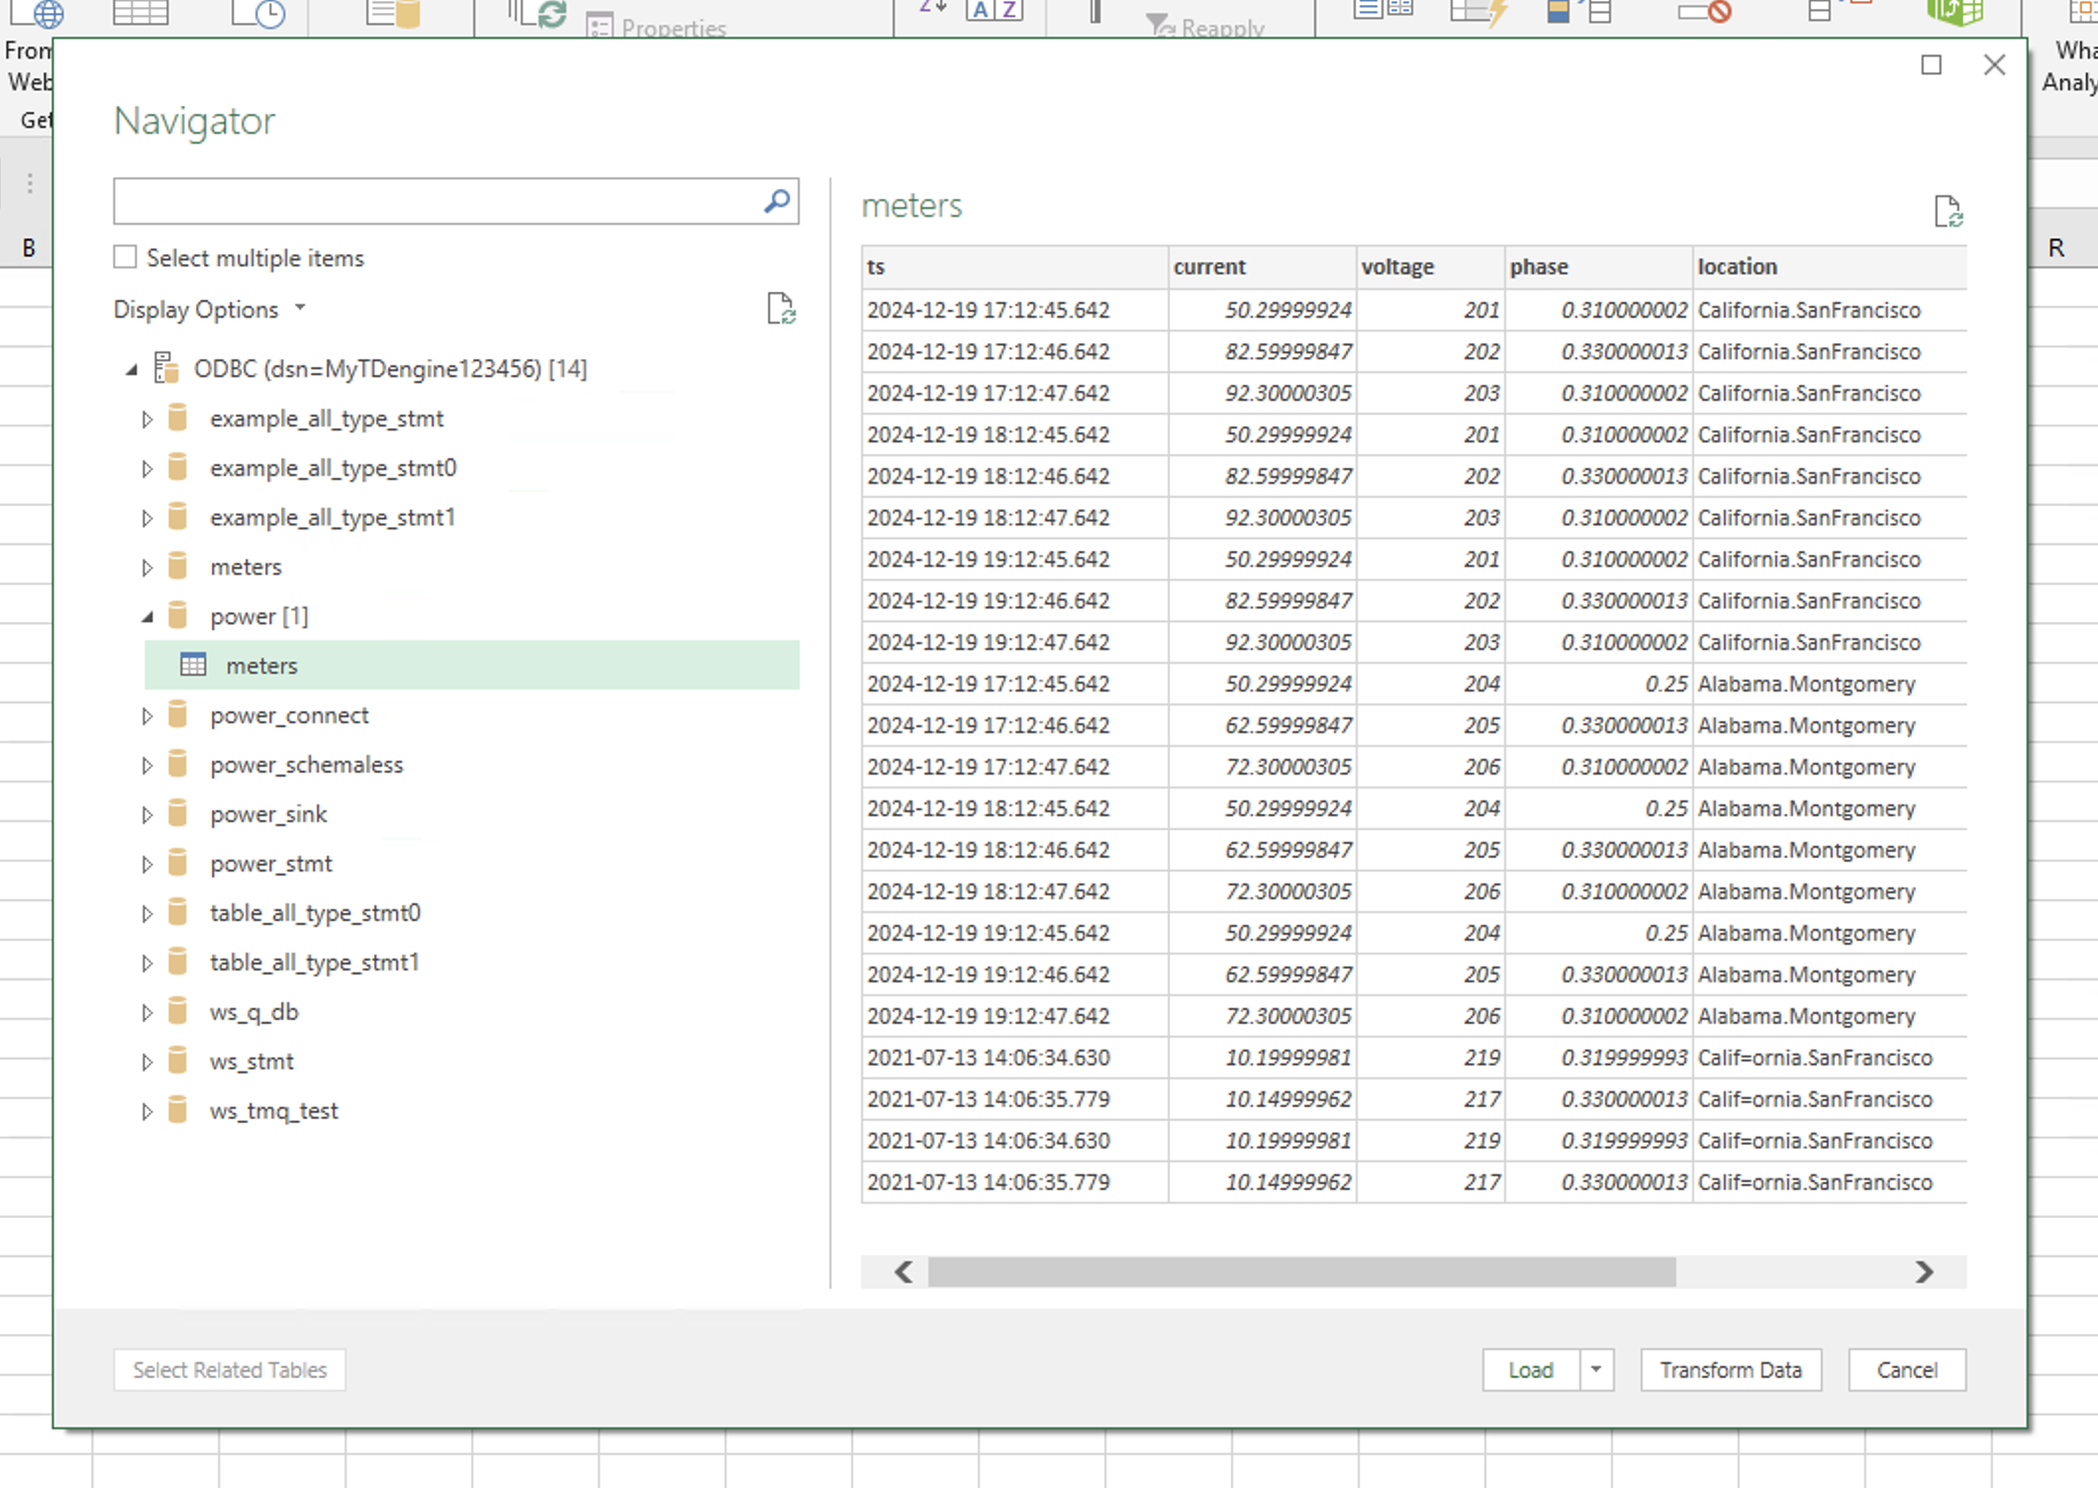
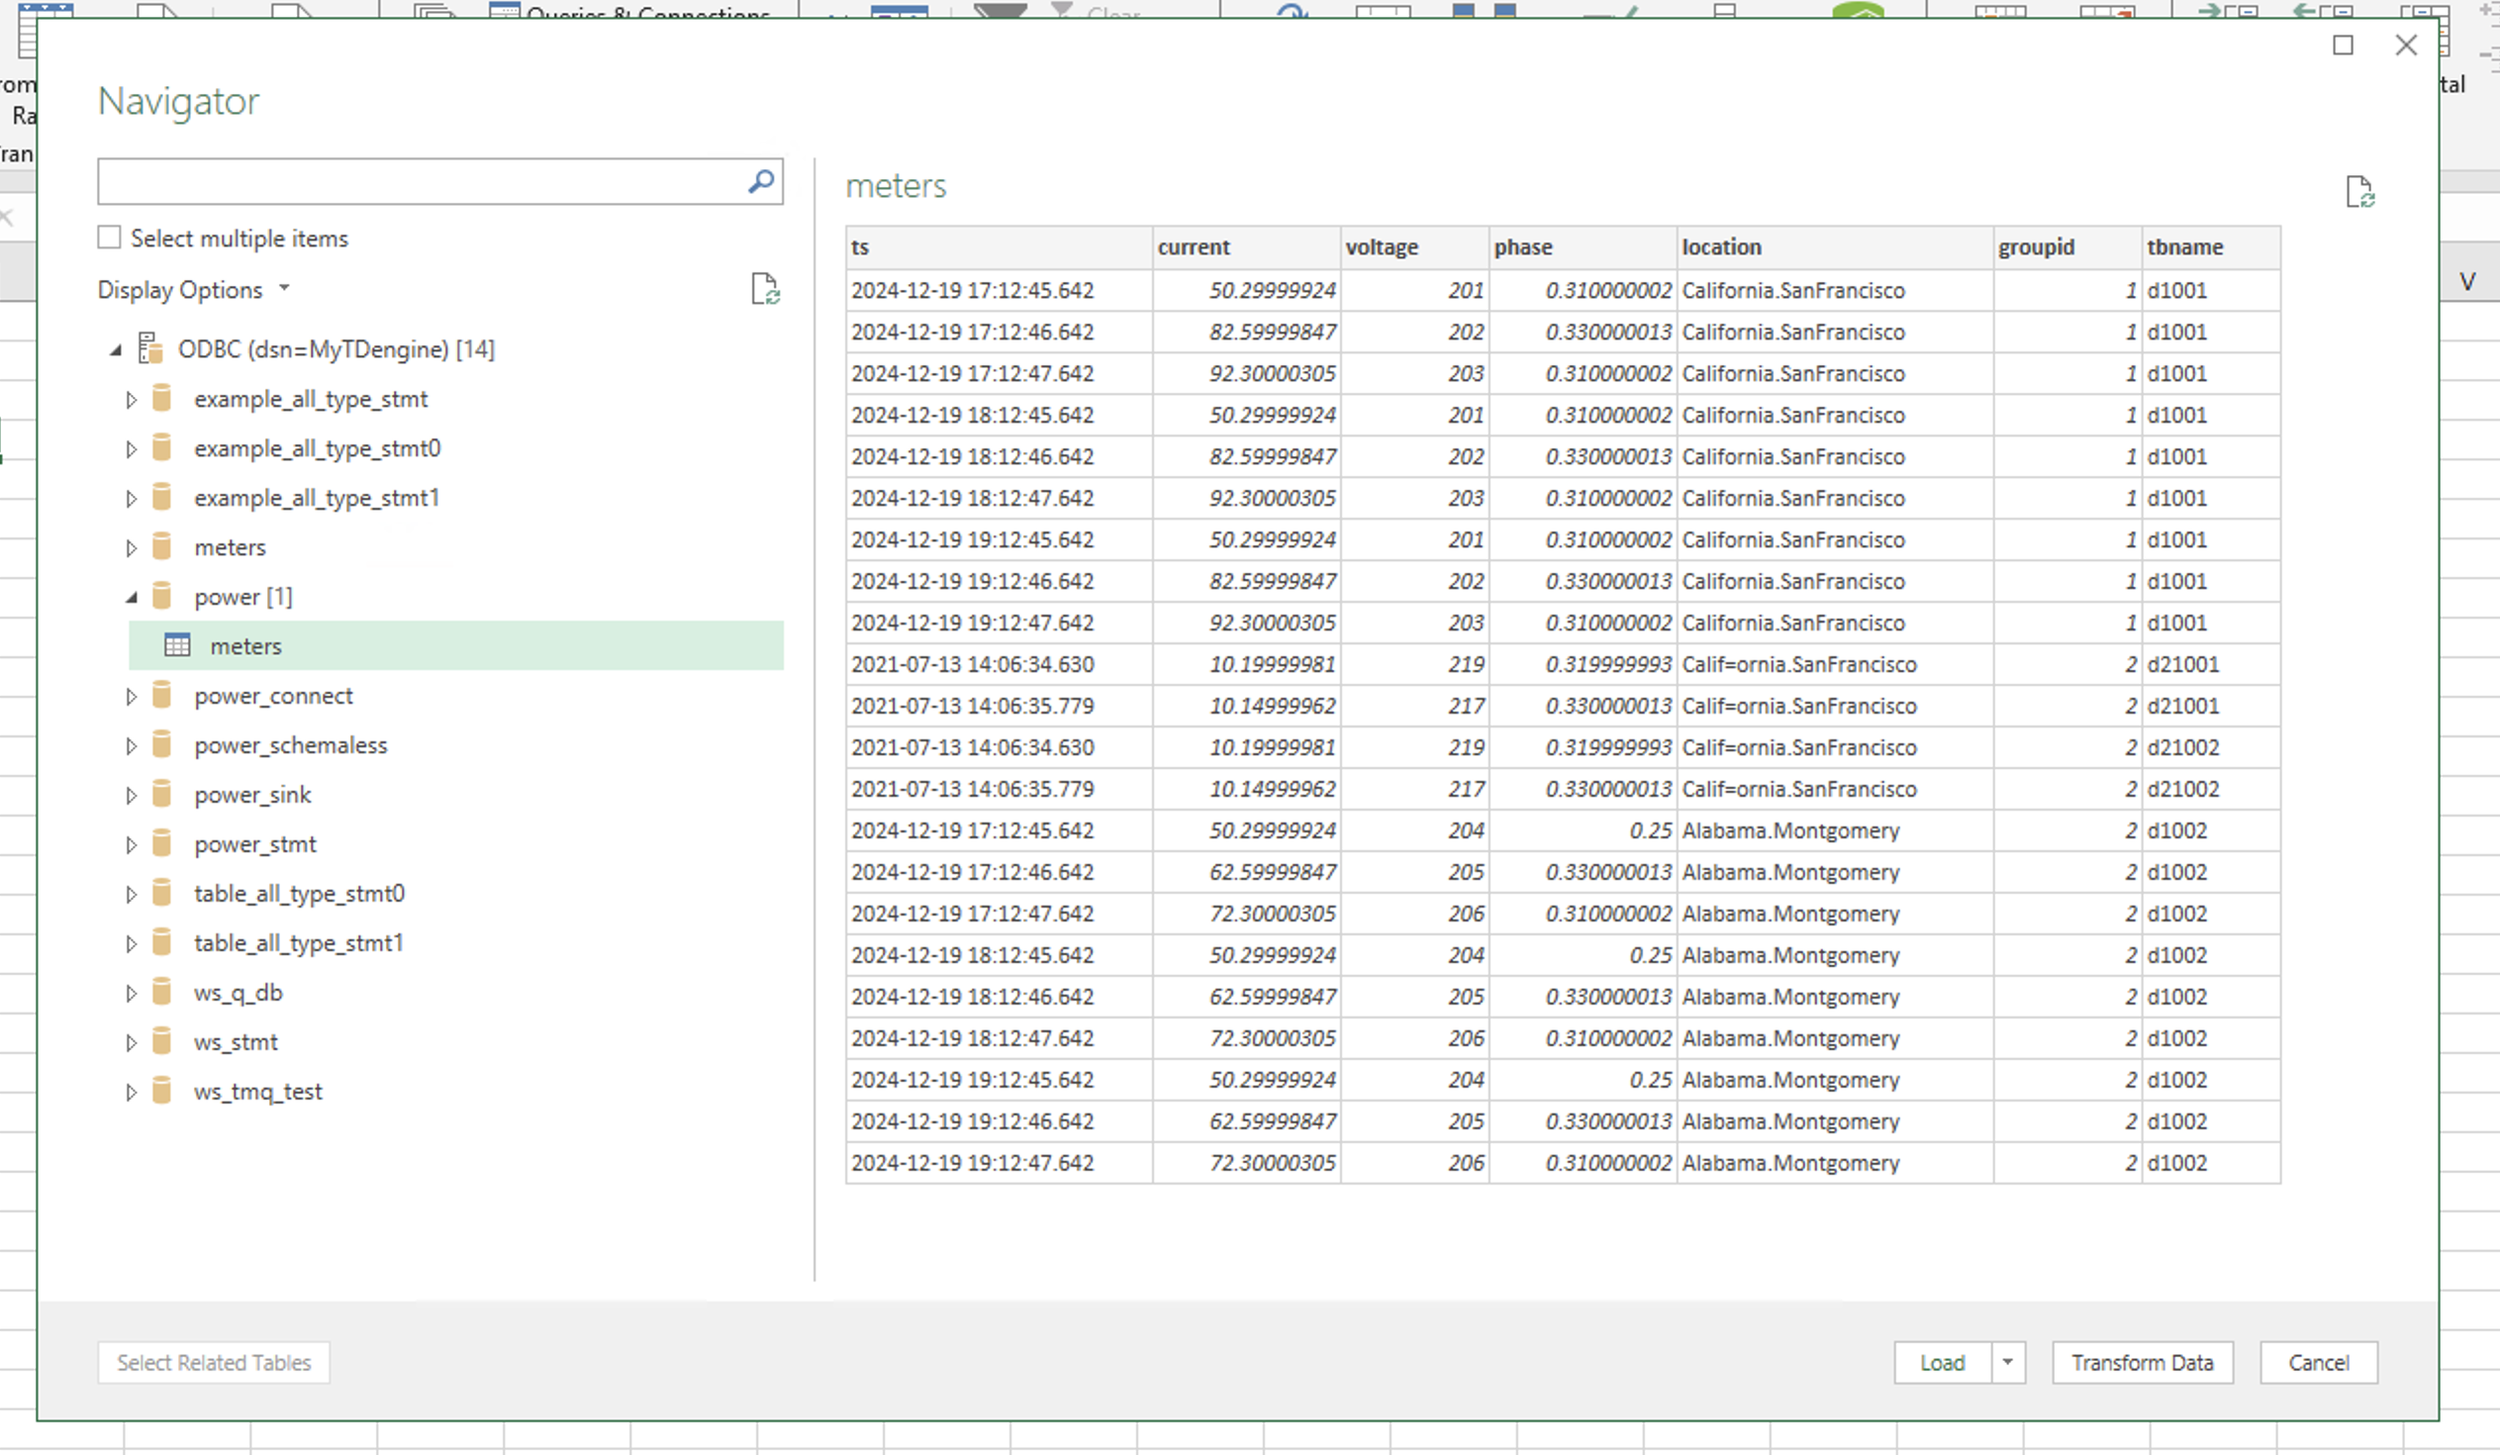
docs(en): modify excel docs error

Changed region(s): [[0.0, 0.0, 1.0, 1.0], [0.2802, 0.1837, 0.3113, 0.2143]]

diff --git a/docs/zh/10-third-party/05-bi/13-excel.md b/docs/zh/10-third-party/05-bi/13-excel.md
@@ -20,11 +20,11 @@ title: 与 Excel 集成
 
 ![excel-odbc](./excel/odbc-menu.jpg) 
 
-**第 3 步**，在弹出窗口的【数据源名称(DSN)】下拉列表中选择【MyTDengine】后，点击【确定】按钮。
+**第 3 步**，在弹出窗口的【数据源名称(DSN)】下拉列表中选择需要连接的数据源后，点击【确定】按钮。
 
 ![excel-odbc](./excel/odbc-select.jpg) 
 
-**第 4 步**，输入 TDengine 的用户名密码
+**第 4 步**，输入 TDengine 的用户名密码。
 
 ![excel-odbc](./excel/odbc-config.jpg) 
 

diff --git a/docs/en/10-third-party/05-bi/13-excel.md b/docs/en/10-third-party/05-bi/13-excel.md
@@ -22,7 +22,7 @@ Prepare the following environment:
 
 ![excel-odbc](./excel/odbc-menu.jpg) 
 
-**Step 3**, In the pop-up window, select 【MyTDengine】 from the drop-down list of 【Data source name (DSN)】, and then click the 【OK】 button.  
+**Step 3**, In the pop-up window, select the data source you need to connect to from the drop-down list of [Data source name (DSN)], and then click the 【OK】 button.ton.  
 
 ![excel-odbc](./excel/odbc-select.jpg) 
 
